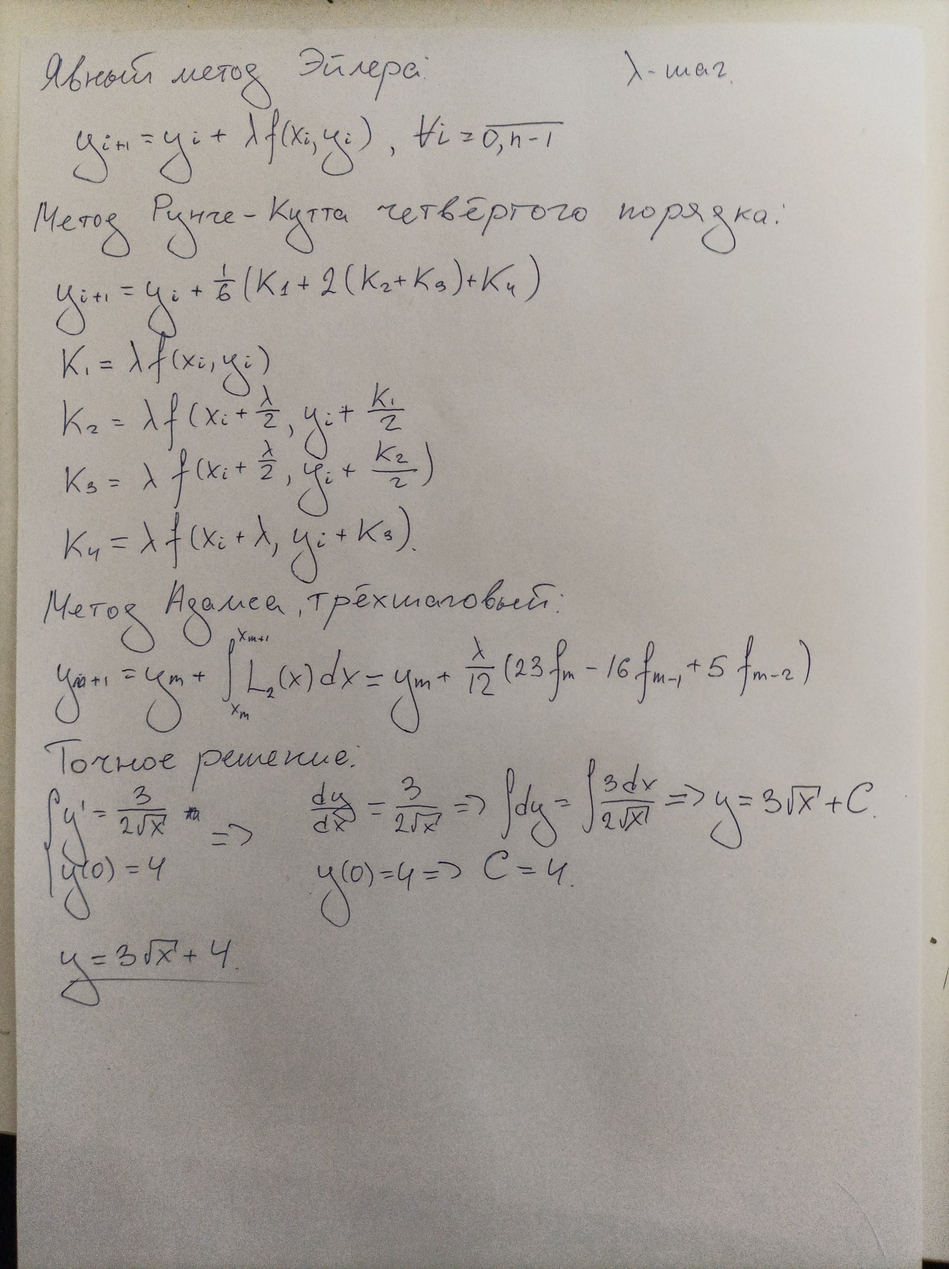
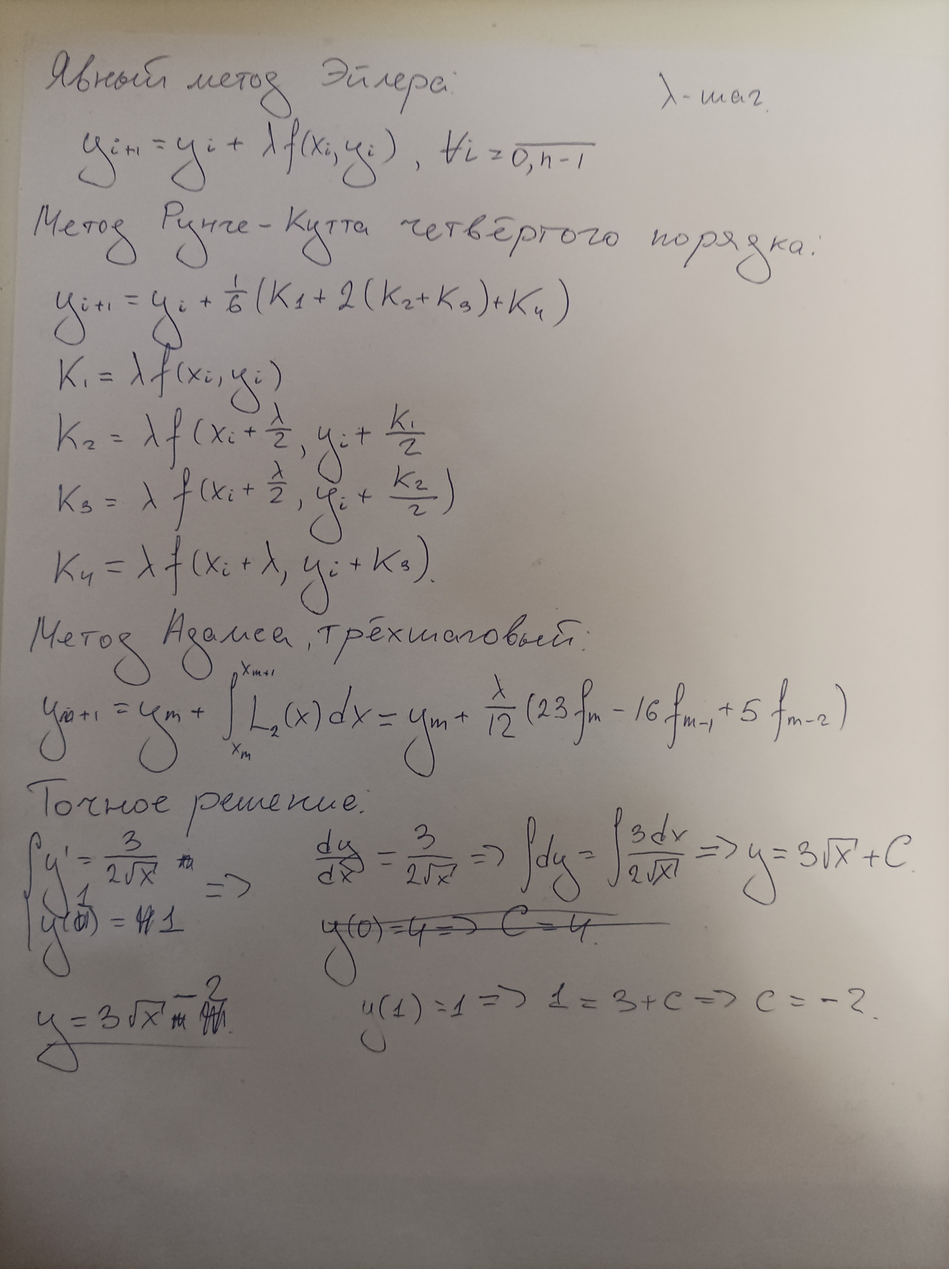
lab5

diff --git a/README.md b/README.md
@@ -81,12 +81,14 @@ Vector(2.000020209728186, 2.999983302234075, 1.0000023627814556)
 ## Формулы для вычисления
 ![формулы](формулы.jpg)
 
+В задаче для начального значения берём конец отрезка y(1) = 1. Методы применяются с конца отрезка.
+На формулы это влияет тем, что для нахождения следующего значение yi мы не плюсуем значение, а вычитаем его. 
 Для трёхшагового метода Адамса были взяты первые три значения, найденные методом Рунге-Кутта. 
 
 ## Графики
-
-
-
+![формулы](n10.jpg)
+![формулы](n20.jpg)
+![формулы](n30.jpg)
 ## Точность
 
 У метода Эйлера точность первого порядка по величине шага. 
